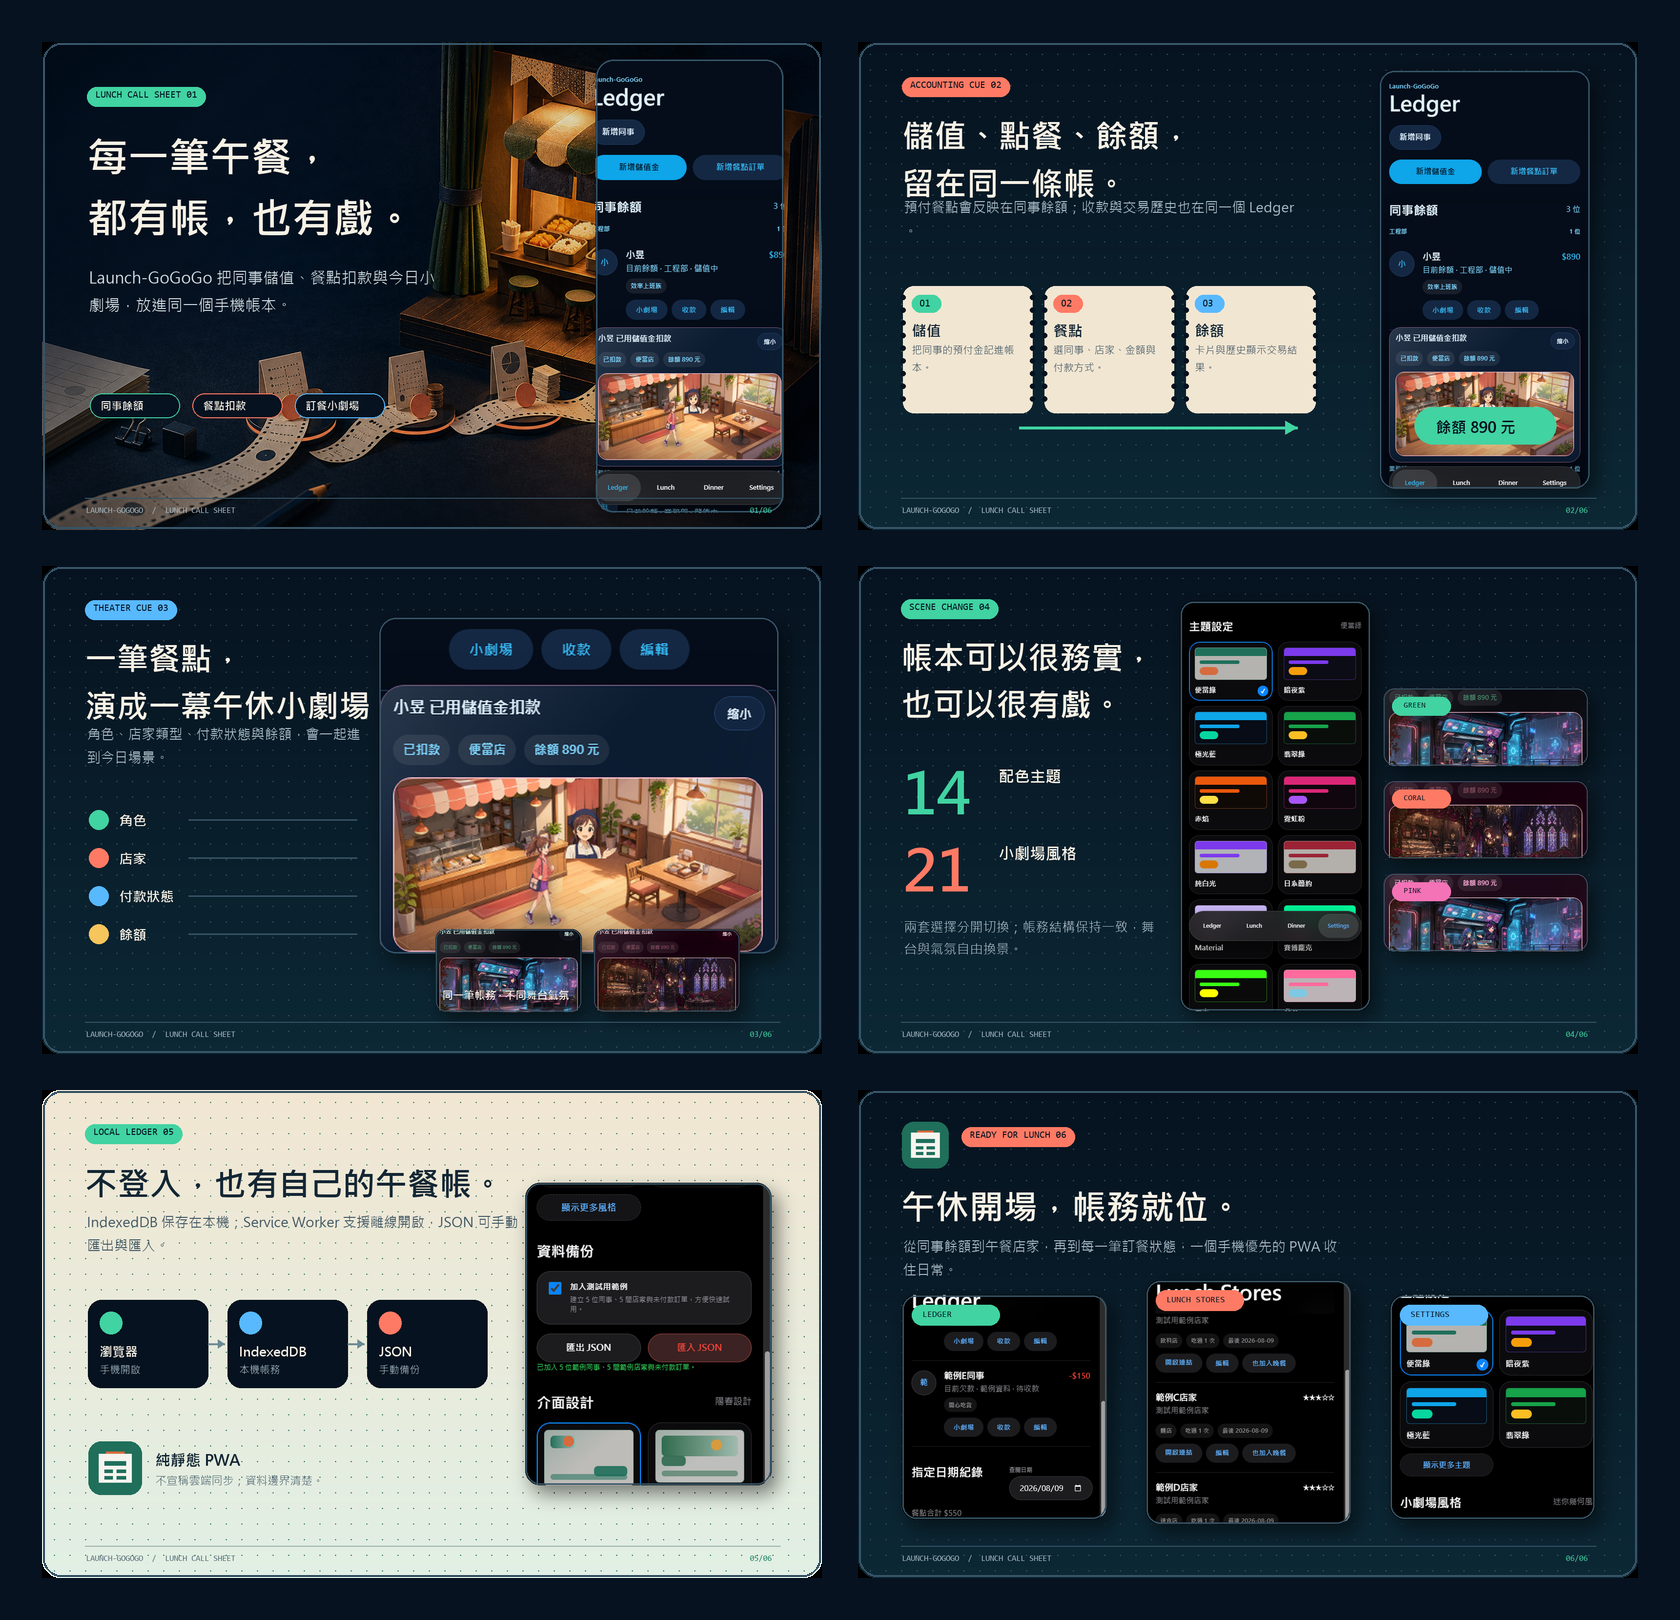
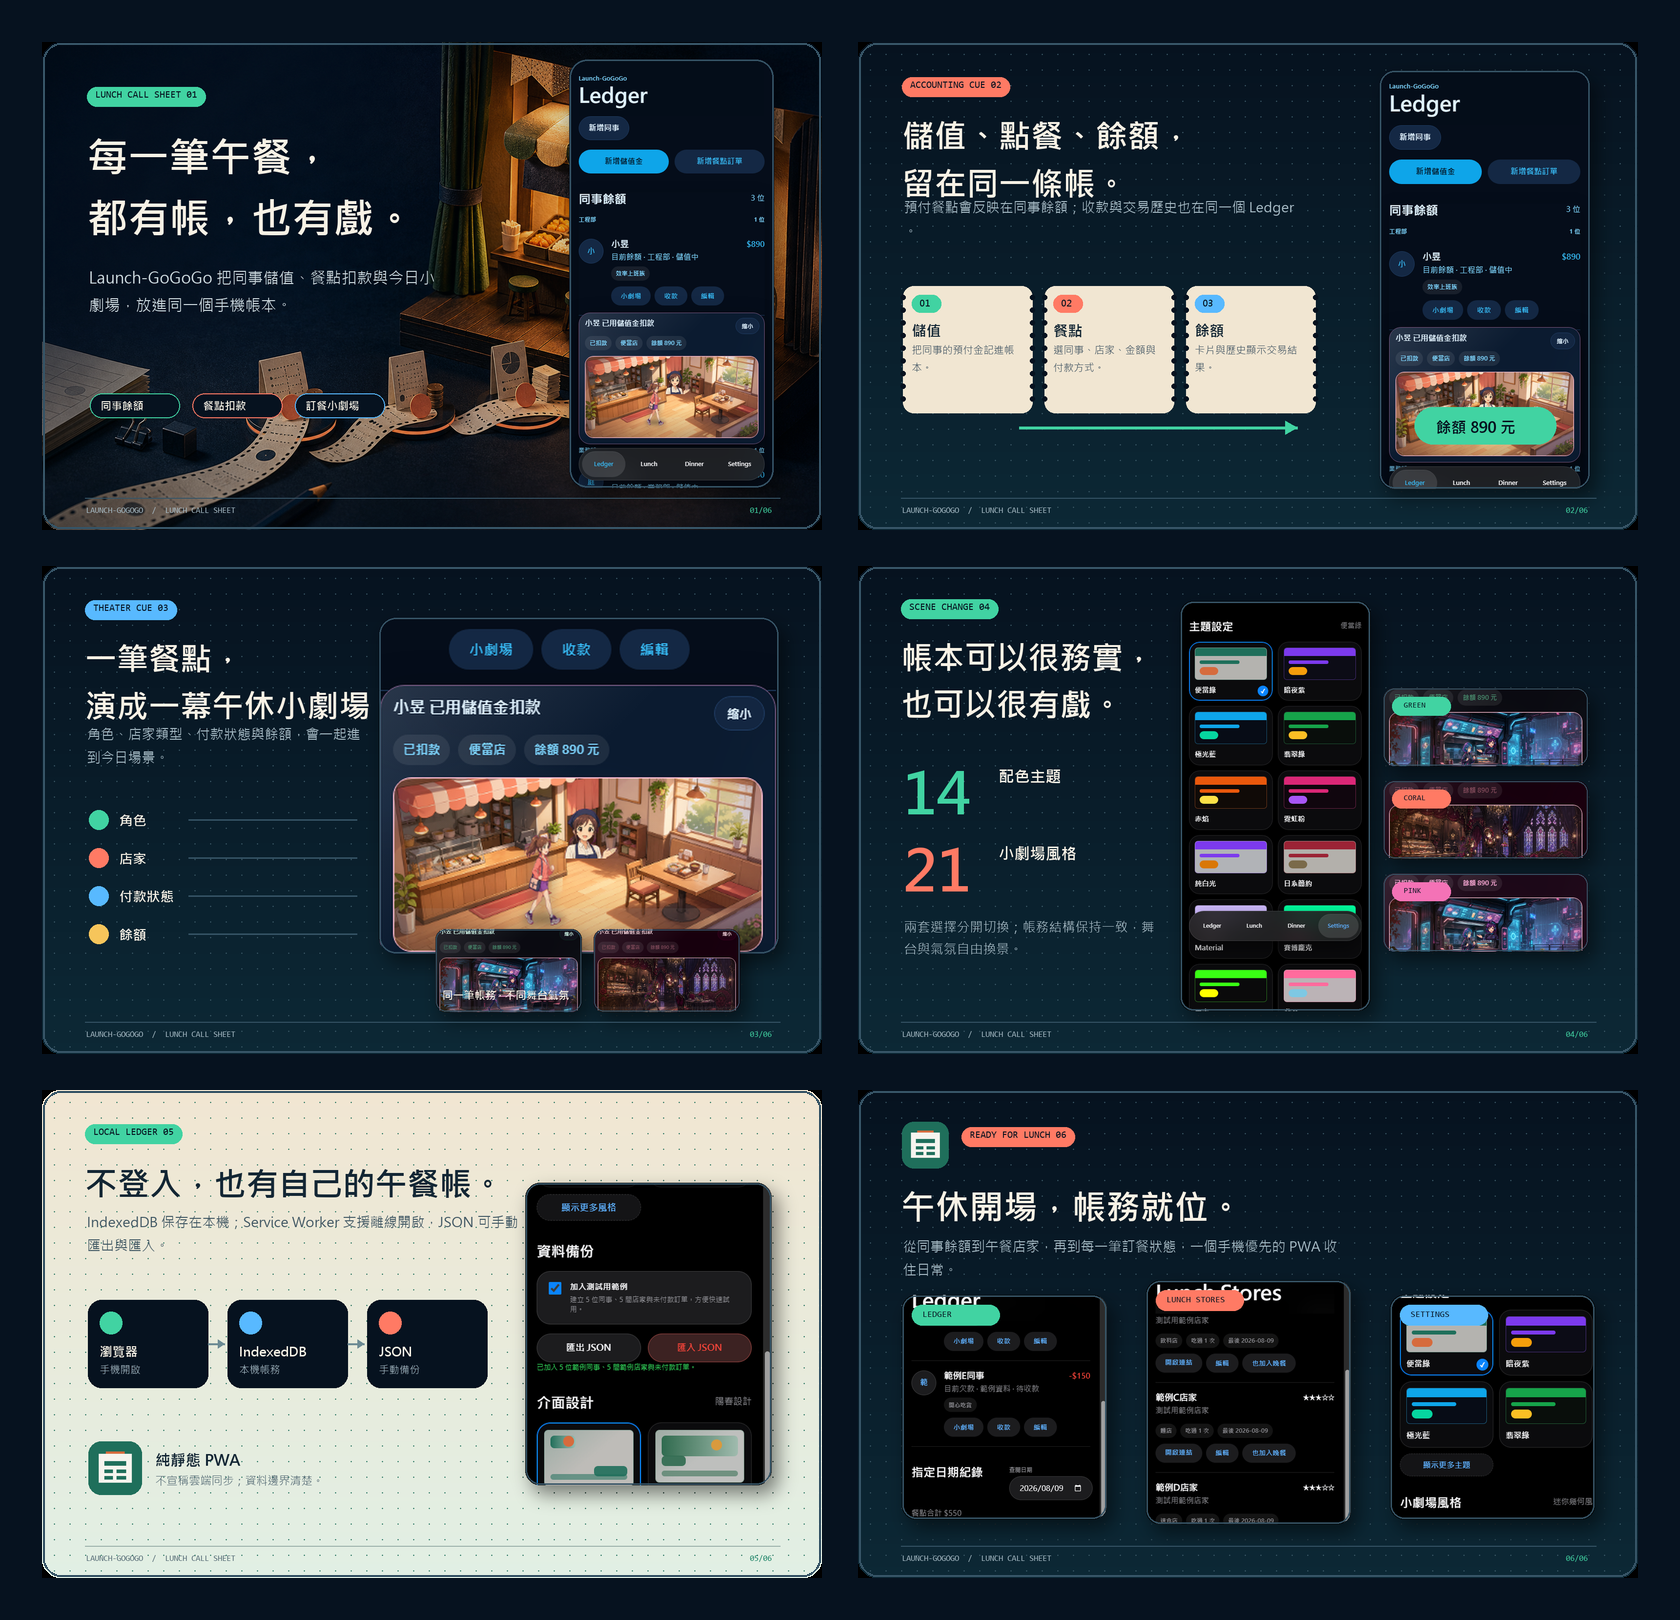
fix: preserve hero UI safe margins

Changed region(s): [[0.3405, 0.0309, 0.4952, 0.3086]]

diff --git a/output/product-marketing-assets/2026-08-09-complete-campaign/working/render_campaign.py b/output/product-marketing-assets/2026-08-09-complete-campaign/working/render_campaign.py
@@ -1,3 +1,4 @@
+import os
 from pathlib import Path
 from PIL import Image, ImageDraw, ImageFont, ImageFilter, ImageOps
 
@@ -5,7 +6,8 @@ from PIL import Image, ImageDraw, ImageFont, ImageFilter, ImageOps
 ROOT = Path(__file__).resolve().parents[4]
 WORK = ROOT / "output" / "product-marketing-assets" / "2026-08-09-complete-campaign" / "working"
 CAPTURES = ROOT / "output" / "product-marketing-assets" / "2026-08-09-complete-campaign" / "raw-captures"
-SHOWCASE = ROOT / "showcase"
+SHOWCASE = Path(os.environ.get("LAUNCH_CAMPAIGN_OUTPUT_DIR", ROOT / "showcase"))
+SHOWCASE.mkdir(parents=True, exist_ok=True)
 
 W, H = 1600, 1000
 BG = "#06121f"
@@ -192,7 +194,7 @@ for i, (label, color) in enumerate([("同事餘額", GREEN), ("餐點扣款", CO
     x = 98 + i * 210
     d.rounded_rectangle((x, 720, x + 184, 770), radius=25, fill=(6, 18, 31, 210), outline=color, width=2)
     d.text((x + 22, 730), label, font=font(22, bold=True), fill=INK)
-paste_card(c, ledger, (1134, 35, 386, 930), radius=36, border=3, mode="cover", focus=(0.5, 0.22))
+paste_card(c, ledger, (1080, 35, 420, 879), radius=36, border=3, mode="contain")
 d = ImageDraw.Draw(c)
 footer_mark(d, 1)
 save(c, "01-hero.png")
@@ -333,7 +335,7 @@ td.text((166, 78), "Launch-GoGoGo", font=font(27, bold=True), fill=INK)
 text_block(td, (70, 185), "每一筆午餐，\n都有帳，也有戲。", font(58, bold=True), INK, 620, 8)
 td.rounded_rectangle((72, 500, 390, 550), radius=25, fill=GREEN)
 td.text((105, 510), "午餐帳本 × 訂餐小劇場", font=font(23, bold=True), fill=BG)
-paste_card(t, ledger, (850, 24, 290, 627), radius=30, border=3, focus=(0.5, 0.19))
+paste_card(t, ledger, (820, 24, 300, 628), radius=30, border=3, mode="contain")
 t.convert("RGB").save(SHOWCASE / "thumbnail.png", quality=95)
 
 
